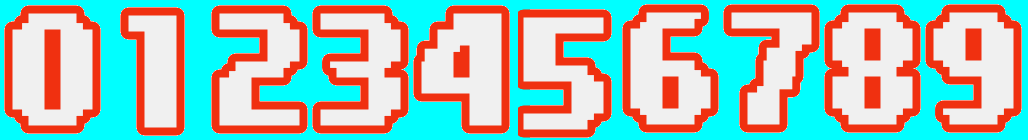
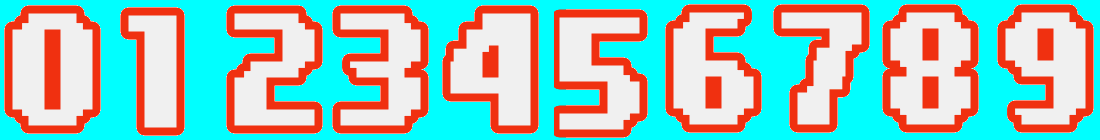
Move digits to the right and make them longer

diff --git a/Score.cpp b/Score.cpp
@@ -2,11 +2,18 @@
 #include <SDL2/SDL_image.h>
 #include "Score.h"
 #include "SpriteSheet.h"
+#include "SDLHelper.h"
 
-Score::Score(SpriteSheet* score_sheet, int num_digits, int points_per_frame, int x_from_left, int y_from_top):sprite_sheet(score_sheet), digits(num_digits), ppf(points_per_frame), x_offset(x_from_left), y_offset(y_from_top){
+Score::Score(SpriteSheet* score_sheet, int num_digits, int points_per_frame, bool measure_from_left, int x_dist, int y_from_top, const SDLHelper *helper):sprite_sheet(score_sheet), digits(num_digits), ppf(points_per_frame), y_offset(y_from_top){
   current_score = 0;
+  if (not measure_from_left){
+    x_offset = helper->getScreenWidth() - (num_digits * score_sheet->getWidth()) - x_dist;
+  } else {
+    x_offset = x_dist;
+  }
 }
-Score::~Score(){}
+Score::~Score(){
+}
 
 void Score::render(SDL_Renderer *renderer){
   int score = current_score;

diff --git a/Platformer.cpp b/Platformer.cpp
@@ -51,7 +51,7 @@ int main() {
   //Score
   SpriteSheet score_digits;
   score_digits.loadFromFile("images/digits.png", helper.renderer, 10);
-  Score score(&score_digits, 3, 2, 20, 20);
+  Score score(&score_digits, 5, 2, false, 20, 20, &helper);
 
   //While application is running, game loop
   while(!quit) {
@@ -94,7 +94,7 @@ int main() {
 
     //Render obstacles
     platforms.generateObstacle(50, 200, 100, helper.getScreenWidth(), helper.getScreenHeight());
-    platforms.shiftObstacles(10, 0);
+    platforms.shift(10, 0);
     platforms.render(helper.renderer);
 
     //Update screen

diff --git a/Obstacles.cpp b/Obstacles.cpp
@@ -41,7 +41,7 @@ void Obstacles::renderObstacle(ObstacleData data, SDL_Renderer *renderer) {
 }
 
 //Iterates through obstacles and shifts their positions
-void Obstacles::shiftObstacles(int xShift, int yShift) {
+void Obstacles::shift(int xShift, int yShift) {
   std::list <ObstacleData> :: iterator it;
   for (it = obstacles.begin(); it != obstacles.end(); ++it) {
     it->box.x -= xShift;

diff --git a/Score.h b/Score.h
@@ -11,7 +11,7 @@
  */
 class Score {
 public:
-  Score(SpriteSheet* score_sheet, int num_digits, int points_per_frame, int x_from_left, int y_from_top);
+  Score(SpriteSheet* score_sheet, int num_digits, int points_per_frame, bool measure_from_left, int x_offset, int y_from_top, const SDLHelper *helper);
   ~Score();
   void render(SDL_Renderer *renderer);
   void update();

diff --git a/SDLHelper.cpp b/SDLHelper.cpp
@@ -71,10 +71,14 @@ void SDLHelper::close() {
 	SDL_Quit();
 }
 
-int SDLHelper::getScreenWidth() {
+int SDLHelper::getScreenWidth() const{
   return SCREEN_WIDTH;
 }
 
-int SDLHelper::getScreenHeight() {
+int SDLHelper::getScreenHeight() const{
   return SCREEN_HEIGHT;
+}
+
+char* SDLHelper::getWindowName() const{
+  return WINDOW_NAME;
 }

diff --git a/SDLHelper.h b/SDLHelper.h
@@ -15,9 +15,9 @@ class SDLHelper{
     ~SDLHelper();
     SDL_Window *window;
     SDL_Renderer *renderer;
-    int getScreenWidth();
-    int getScreenHeight();
-    char *getWindowName();
+    int getScreenWidth() const;
+    int getScreenHeight() const;
+    char *getWindowName() const;
   private:
     bool init();
     void close();

diff --git a/Obstacles.h b/Obstacles.h
@@ -16,7 +16,7 @@ class Obstacles {
     Obstacles(SpriteSheet *tileSheet);
     ~Obstacles();
     void render(SDL_Renderer *renderer);
-    void shiftObstacles(int xShift, int yShift);
+    void shift(int xShift, int yShift);
     struct ObstacleData{
       SDL_Rect box;
       int tile_num;
